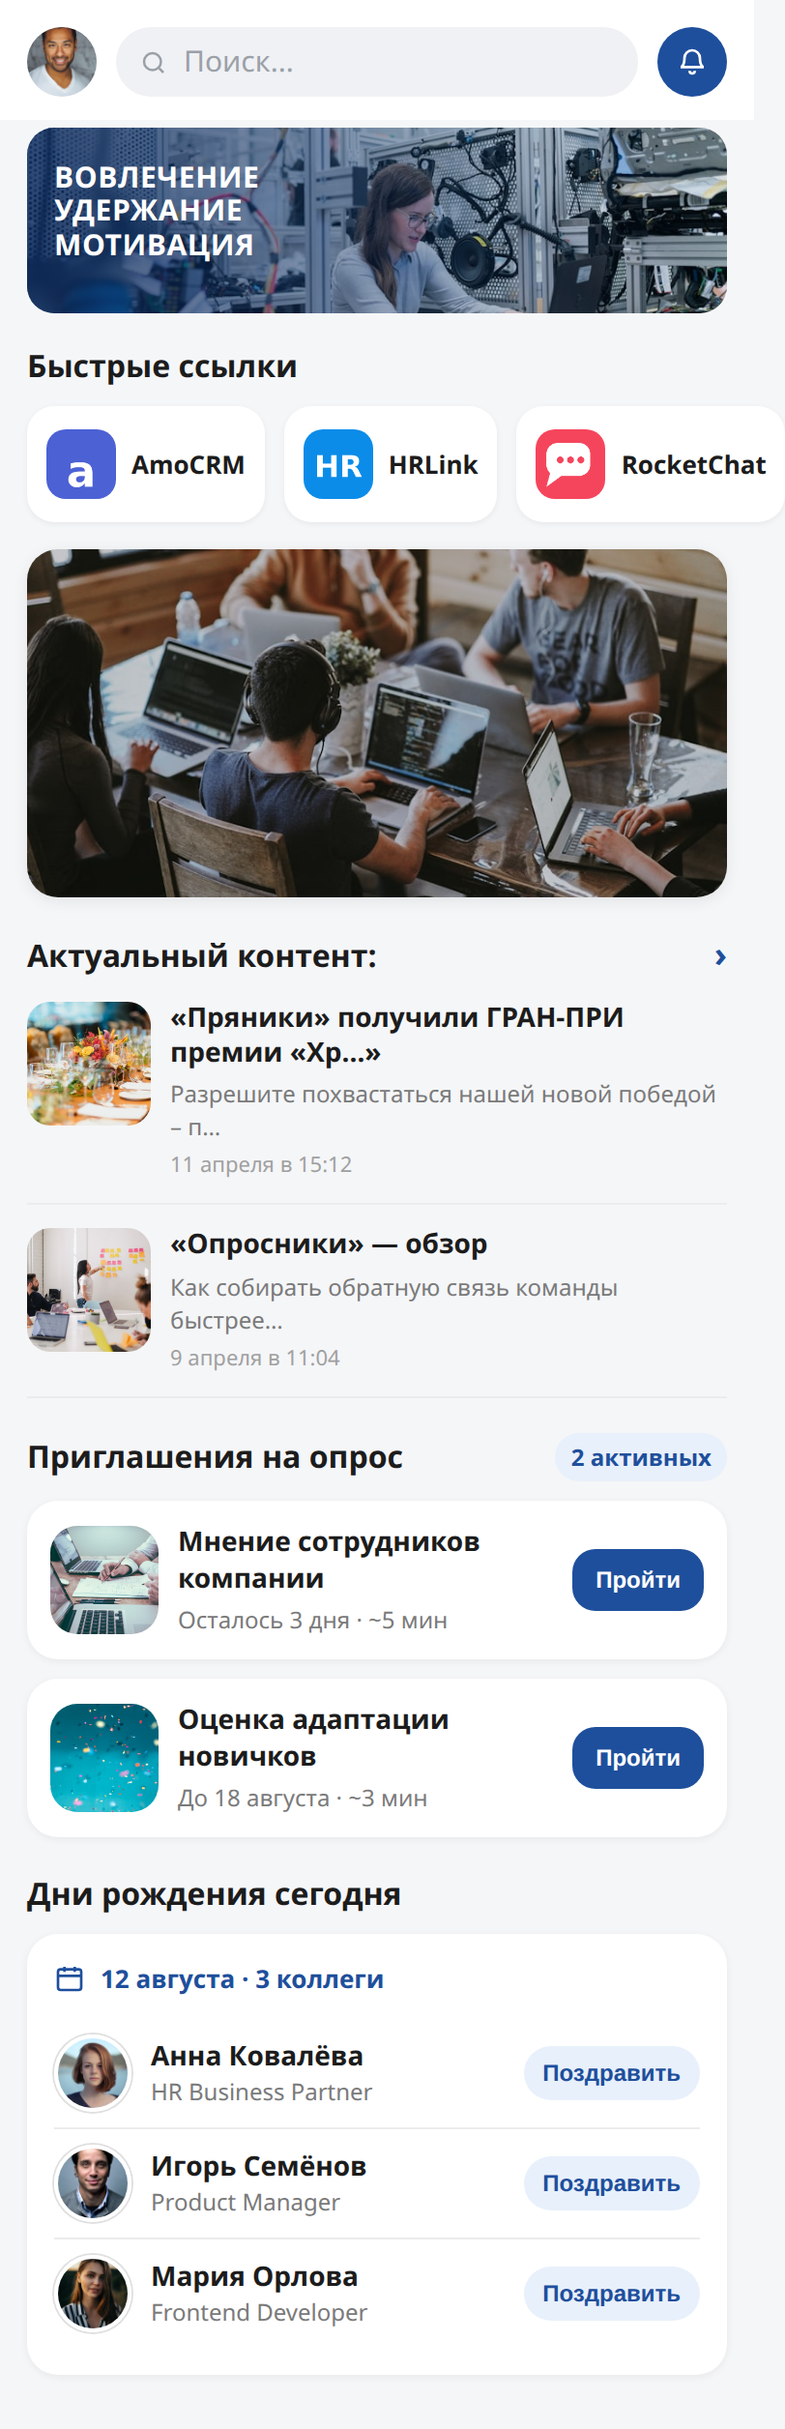
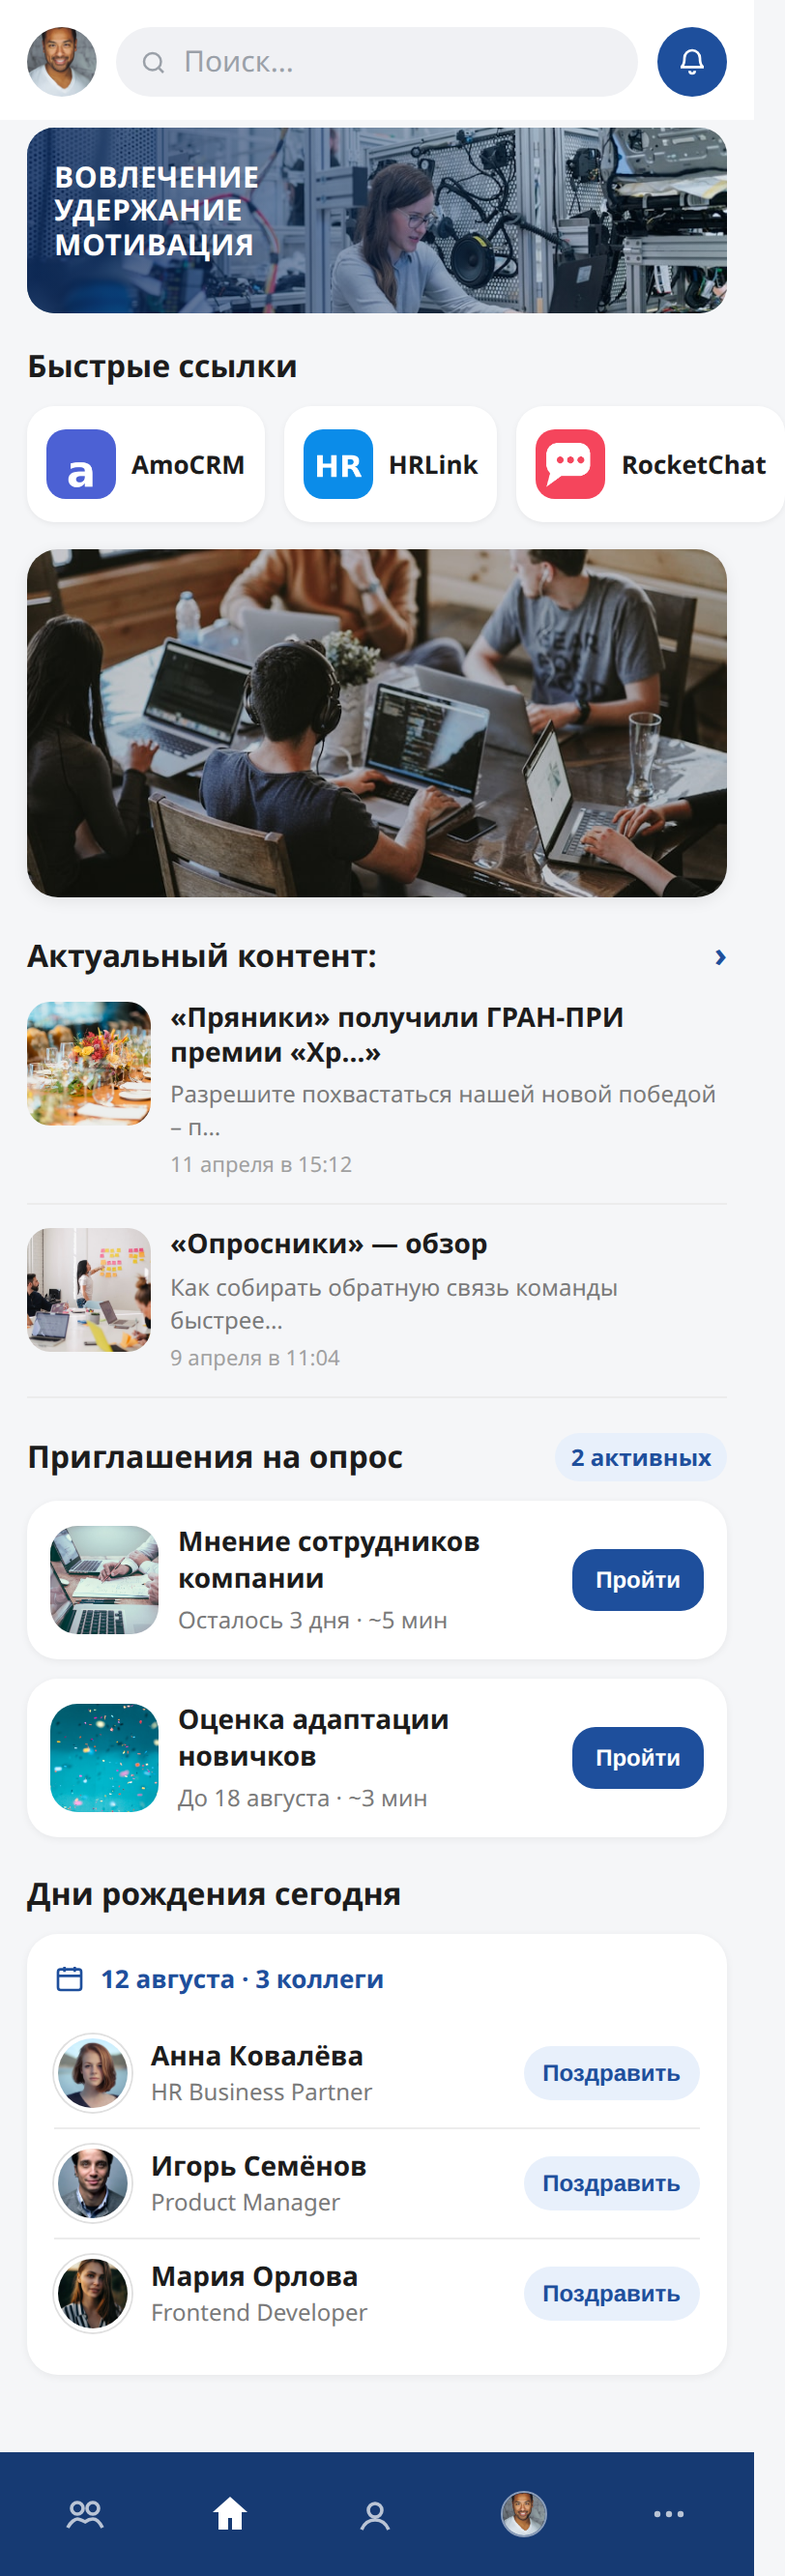
Restore mobile bottom tab bar on long mockup

diff --git a/beeline-test/mobile-surveys-birthdays.html b/beeline-test/mobile-surveys-birthdays.html
@@ -61,7 +61,7 @@
     flex: 0 0 auto;
   }
 
-  .content { padding: 0 14px 28px; }
+  .content { padding: 0 14px 20px; }
 
   .banner {
     margin-top: 4px;
@@ -250,6 +250,31 @@
     border-radius: 999px;
     padding: 7px 10px;
   }
+
+  .tabbar {
+    margin-top: 20px;
+    height: 64px;
+    background: var(--blue-deep);
+    display: grid;
+    grid-template-columns: repeat(5, 1fr);
+    align-items: center;
+    padding: 0 6px;
+  }
+  .tab {
+    display: grid;
+    place-items: center;
+    color: rgba(255,255,255,0.7);
+    height: 44px;
+  }
+  .tab.active { color: #fff; }
+  .tab svg { width: 24px; height: 24px; }
+  .tab .mini-av {
+    width: 24px;
+    height: 24px;
+    border-radius: 50%;
+    object-fit: cover;
+    border: 1.5px solid rgba(255,255,255,0.5);
+  }
 </style>
 </head>
 <body>
@@ -363,5 +388,20 @@
     </section>
   </div>
 
-  </body>
+  <nav class="tabbar">
+    <div class="tab">
+      <svg viewBox="0 0 24 24" fill="none" stroke="currentColor" stroke-width="1.8"><circle cx="8" cy="9" r="3"/><circle cx="16" cy="9" r="3"/><path d="M3 19c1.5-3 4-4.5 5-4.5S12 16 12 16s2-1.5 4-1.5 3.5 1.5 5 4.5"/></svg>
+    </div>
+    <div class="tab active">
+      <svg viewBox="0 0 24 24" fill="currentColor"><path d="M12 3l9 8h-3v9h-5v-6H11v6H6v-9H3z"/></svg>
+    </div>
+    <div class="tab">
+      <svg viewBox="0 0 24 24" fill="none" stroke="currentColor" stroke-width="1.8"><circle cx="11" cy="10" r="3.5"/><path d="M4 20c1.5-3.5 4-5 7-5s5.5 1.5 7 5"/></svg>
+    </div>
+    <div class="tab"><img class="mini-av" src="assets/img/avatar-user.jpg" alt="" /></div>
+    <div class="tab">
+      <svg viewBox="0 0 24 24" fill="currentColor"><circle cx="6" cy="12" r="1.6"/><circle cx="12" cy="12" r="1.6"/><circle cx="18" cy="12" r="1.6"/></svg>
+    </div>
+  </nav>
+</body>
 </html>

diff --git a/outreach/beeline-test/mobile-surveys-birthdays.html b/outreach/beeline-test/mobile-surveys-birthdays.html
@@ -61,7 +61,7 @@
     flex: 0 0 auto;
   }
 
-  .content { padding: 0 14px 28px; }
+  .content { padding: 0 14px 20px; }
 
   .banner {
     margin-top: 4px;
@@ -250,6 +250,31 @@
     border-radius: 999px;
     padding: 7px 10px;
   }
+
+  .tabbar {
+    margin-top: 20px;
+    height: 64px;
+    background: var(--blue-deep);
+    display: grid;
+    grid-template-columns: repeat(5, 1fr);
+    align-items: center;
+    padding: 0 6px;
+  }
+  .tab {
+    display: grid;
+    place-items: center;
+    color: rgba(255,255,255,0.7);
+    height: 44px;
+  }
+  .tab.active { color: #fff; }
+  .tab svg { width: 24px; height: 24px; }
+  .tab .mini-av {
+    width: 24px;
+    height: 24px;
+    border-radius: 50%;
+    object-fit: cover;
+    border: 1.5px solid rgba(255,255,255,0.5);
+  }
 </style>
 </head>
 <body>
@@ -363,5 +388,20 @@
     </section>
   </div>
 
-  </body>
+  <nav class="tabbar">
+    <div class="tab">
+      <svg viewBox="0 0 24 24" fill="none" stroke="currentColor" stroke-width="1.8"><circle cx="8" cy="9" r="3"/><circle cx="16" cy="9" r="3"/><path d="M3 19c1.5-3 4-4.5 5-4.5S12 16 12 16s2-1.5 4-1.5 3.5 1.5 5 4.5"/></svg>
+    </div>
+    <div class="tab active">
+      <svg viewBox="0 0 24 24" fill="currentColor"><path d="M12 3l9 8h-3v9h-5v-6H11v6H6v-9H3z"/></svg>
+    </div>
+    <div class="tab">
+      <svg viewBox="0 0 24 24" fill="none" stroke="currentColor" stroke-width="1.8"><circle cx="11" cy="10" r="3.5"/><path d="M4 20c1.5-3.5 4-5 7-5s5.5 1.5 7 5"/></svg>
+    </div>
+    <div class="tab"><img class="mini-av" src="assets/img/avatar-user.jpg" alt="" /></div>
+    <div class="tab">
+      <svg viewBox="0 0 24 24" fill="currentColor"><circle cx="6" cy="12" r="1.6"/><circle cx="12" cy="12" r="1.6"/><circle cx="18" cy="12" r="1.6"/></svg>
+    </div>
+  </nav>
+</body>
 </html>
